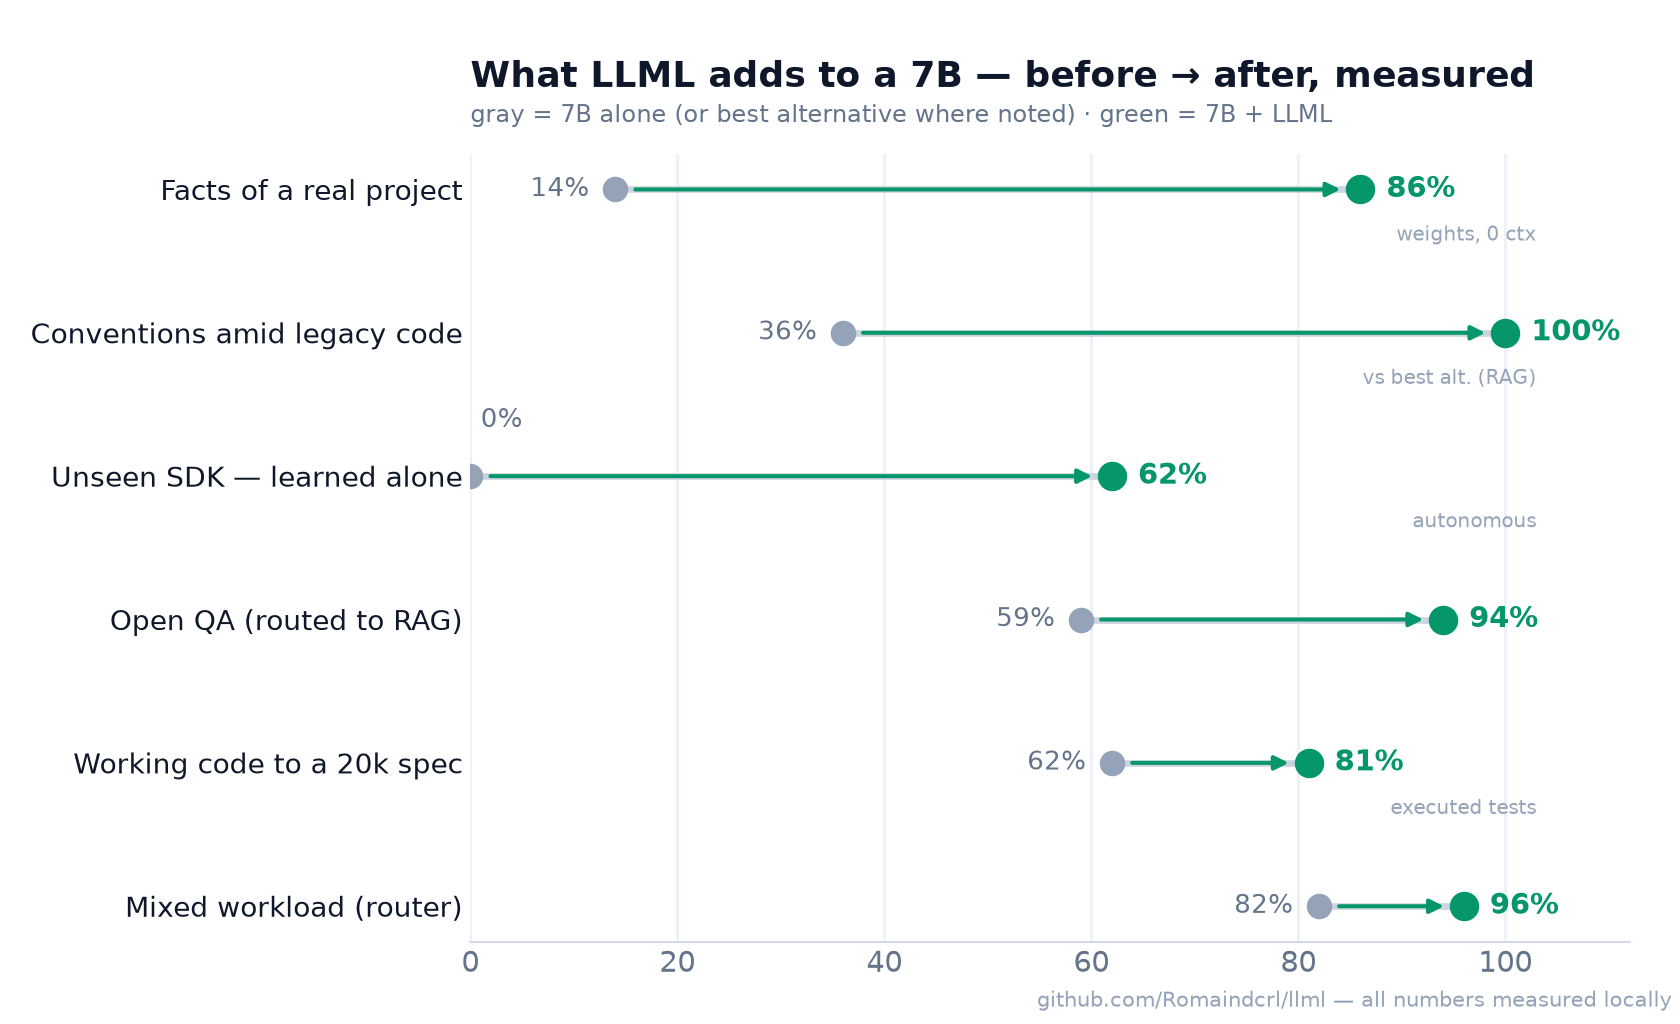
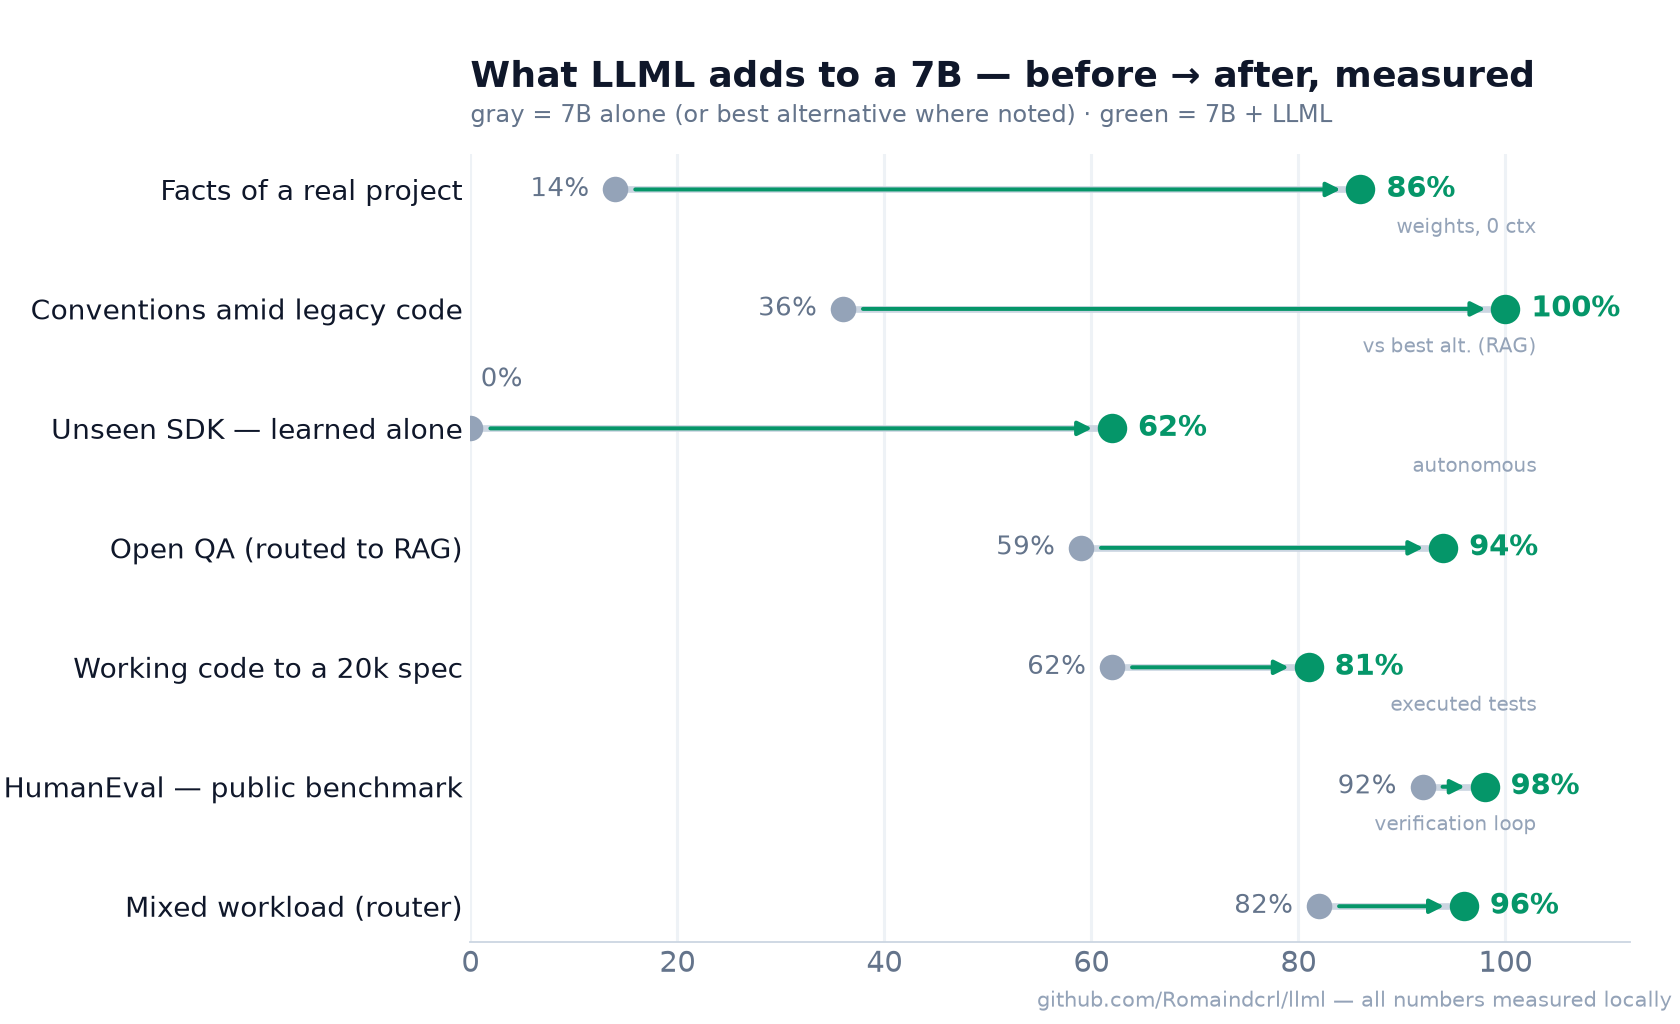
README: HumanEval trio woven in (bottom line, pillars, boundaries) + hero chart updated with the 92->98 verification row

diff --git a/scripts/make_charts_v2.py b/scripts/make_charts_v2.py
@@ -52,6 +52,7 @@ def hero():
         ("Unseen SDK — learned alone", 0, 62, "autonomous"),
         ("Open QA (routed to RAG)", 59, 94, ""),
         ("Working code to a 20k spec", 62, 81, "executed tests"),
+        ("HumanEval — public benchmark", 92, 98, "verification loop"),
         ("Mixed workload (router)", 82, 96, ""),
     ]
     fig, ax = plt.subplots(figsize=(10.5, 6.4))

diff --git a/README.md b/README.md
@@ -66,7 +66,9 @@ own drafts against available ground truth).
 
 > **Bottom line: LLML turns a generalist 7B into a project specialist that matches a model twice
 > its size — on project work — learns new domains alone, improves with use, in 46 MB per tenant
-> at zero recurring context cost. Its raw IQ doesn't move; we measured that too, five times.**
+> at zero recurring context cost. On a public benchmark it lifts pass@1 92% → 98% through
+> verification, while its router turns a −84-pt adapter hazard into ±0. Its raw IQ doesn't
+> move; we measured that too, five times — and we tell you which pillar earns each point.**
 
 ## 🧠 How it works
 
@@ -103,12 +105,15 @@ Complementary Learning Systems, operationalized: context = hippocampus, weights 
 1. **Knowledge in the weights** — the spec lives in a LoRA: 0 tokens forever, load-invariant
    (same score at 0 and 20k tokens of noise), immune to the imitation trap below.
 2. **RAG + router + verification** — the unpredictable stays retrievable (SQuAD 94%); a
-   deterministic verify pass fixes exact values against memory (67% → 92% on the expert system,
-   closed a cross-file rule from 0% → 100%). Generation is *never* routed to weights — we
+   deterministic verify pass fixes drafts against whatever ground truth exists — memory, the
+   project's own files, or executable examples (67% → 92% on the expert system, 0% → 100% on a
+   cross-file rule, **92% → 98% on HumanEval**). Generation is *never* routed to weights — we
    measured why, five times.
 3. **Autonomous learning** — failure-triggered self-study + sleep consolidation (next section).
 4. **A mixture of LoRA experts** — one frozen base, one 46 MB expert per domain/client,
-   routed per request, hot-swapped in ~2 ms.
+   routed per request, hot-swapped in ~2 ms — with a certified **GENERAL fallback**: on 40/40
+   out-of-domain tasks the router chose the bare model, keeping it at full strength where an
+   always-on adapter would have cost 84 points.
 
 ## 🏆 Flagship results
 
@@ -194,9 +199,10 @@ Knowing where a tool stops is what makes it usable. Ours, measured:
 - **Memory ≠ intelligence.** The weights store what the model *knows*, not how well it
   *reasons*. Hard algorithms need a stronger base — and LLML rides it (proven on the 14B).
   Training code skill into a small quantized model made it measurably worse, every time we tried.
-- **Baked style is rigid.** A spec-LoRA imposes its learned skeleton — it once ignored a novel
-  in-context rule until the verification pass was extended to enforce it. Decomposition +
-  verification aren't accessories; they're the pieces that make the weights usable.
+- **Weight-memory must be routed, never ambient.** An always-on spec-LoRA scores **8%** on
+  HumanEval where the bare model scores 92% — the baked skeleton overrides everything,
+  including novel in-context rules. The router's GENERAL fallback (40/40 correct) and the
+  verification pass aren't accessories; they're what makes weight-memory safe to carry.
 - **The recipe matters.** Naive training gets 14%; coverage + paraphrase augmentation gets
   86%. Budget for it (it's automatable — that's what `/sleep` does).
 - **Ns are small** (8-40 items per bench), models are local, one family (qwen2.5). Directional